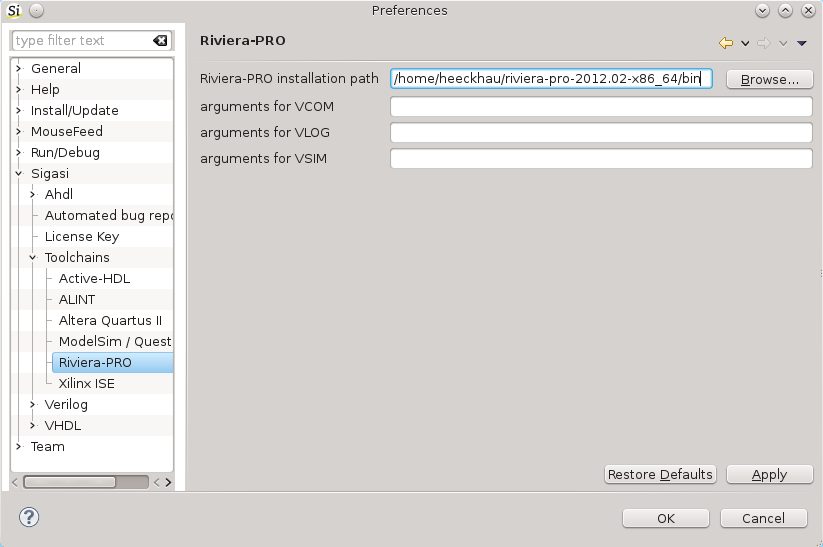
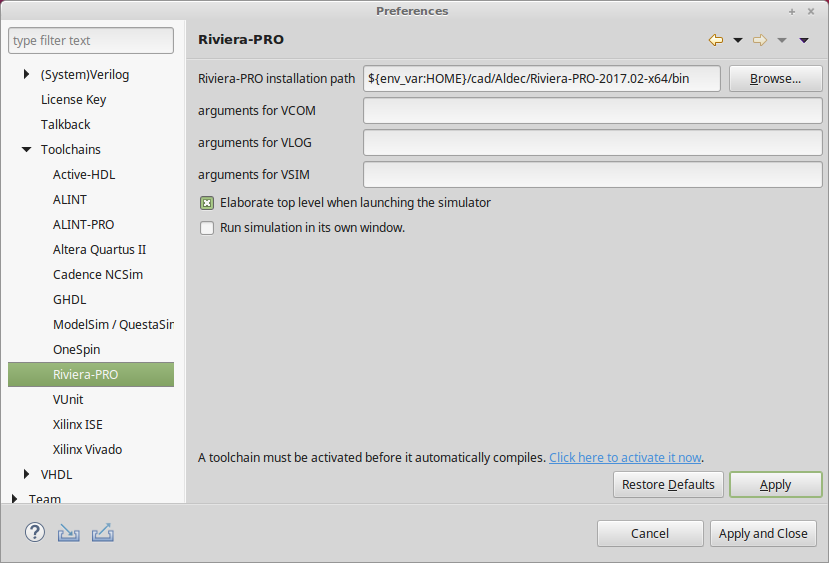
Improving documentation on the use of environment variables.
closes #4

Changed region(s): [[0.0, 0.0, 1.0, 1.0], [0.0, 0.9324, 0.1519, 0.9634], [0.243, 0.0622, 0.3645, 0.0932]]

diff --git a/manual/projectsetup.md b/manual/projectsetup.md
@@ -42,9 +42,15 @@ just drag them from your Windows Explorer (or other file browser) into
 the project. You will have the option to create a link rather than
 copying the files.
 
-**Note:** dragging files works on Windows (using Windows Explorer), on
+**Note 1:** dragging files works on Windows (using Windows Explorer), on
 Mac OS X (using Finder) and on Linux (using Gnome Nautilus). If you use
 KDE, you should install Nautilus.
+
+**Note 2:** to avoid absolute paths in the .project file, *environment variables* can be used.
+Right-click the file or directory in the project explorer and select
+**Properties > Resource > Location > Edit...** to configure the path of the resource.
+To access *environment variables*, you have to prefix the environment variable with `ENV-`.
+For example: to refer to the home directory you can use `ENV-HOME`.
 
 # Creating a new, empty project
 

diff --git a/manual/tools.md b/manual/tools.md
@@ -75,6 +75,9 @@ that these preference pages support [Eclipse
 Variables](https://help.eclipse.org/photon/topic/org.eclipse.platform.doc.user/concepts/concepts-exttools.htm)
 which allow you to more easily share settings in a team.
 
+Environment variables are supported too.
+If you want to use the `$HOME` environment variable, you can call this varible by typing `${env_var:HOME}`.
+
 ![](images/toolchains-settings-rivierapro.png)
 
 ## List of toolchains
